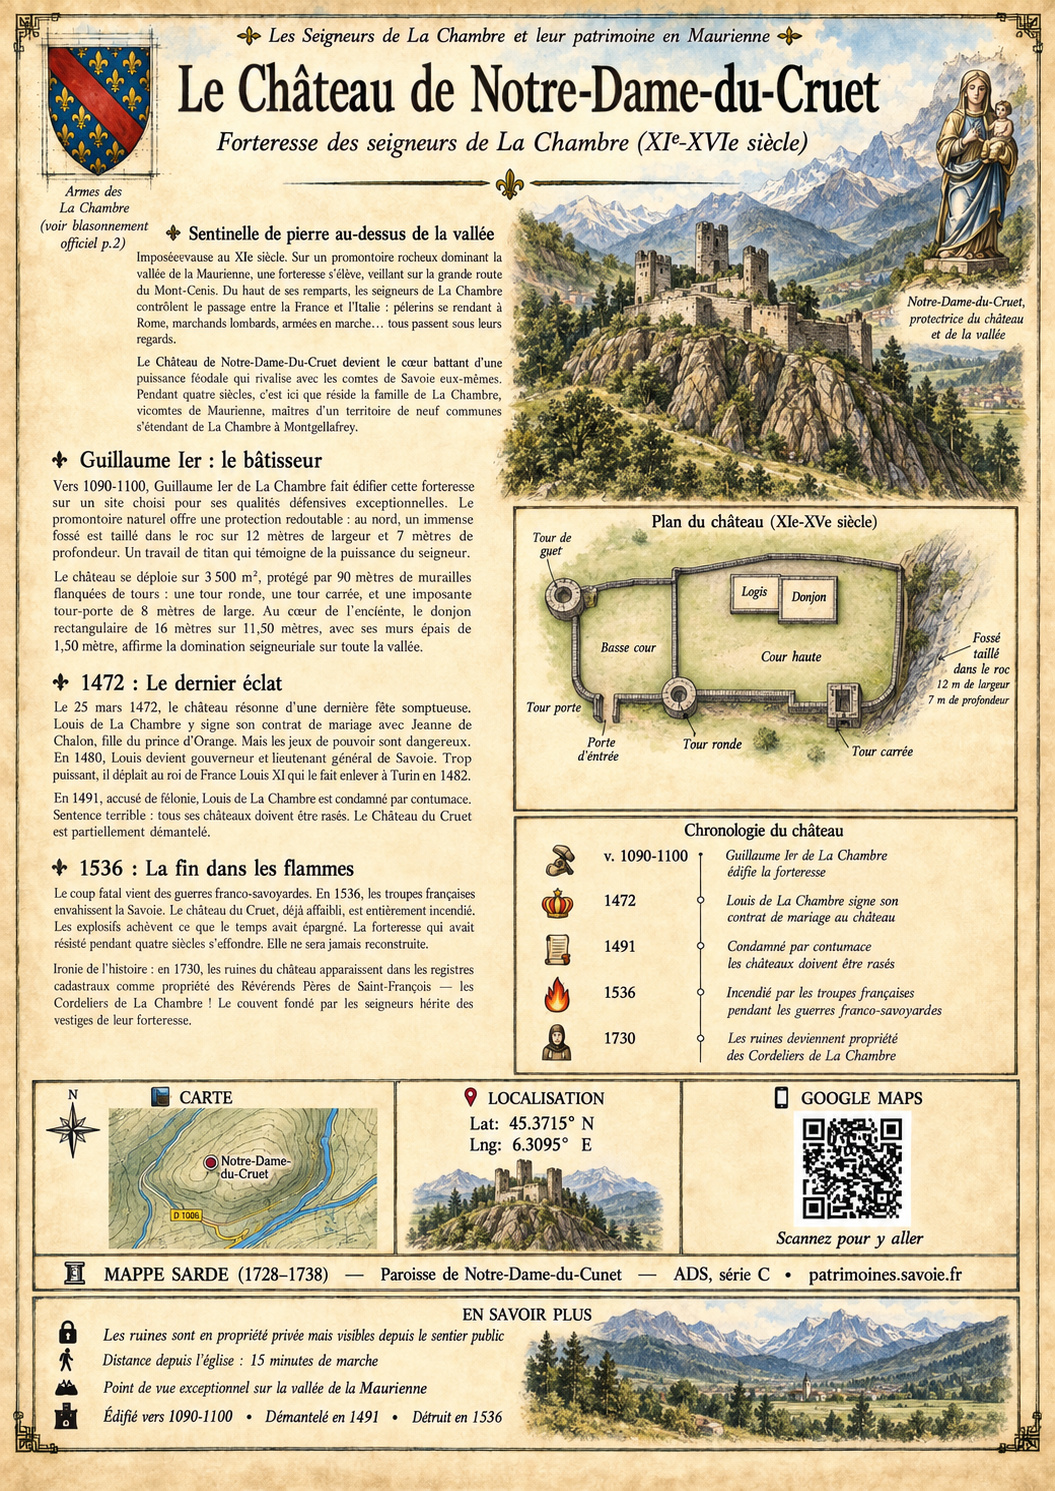
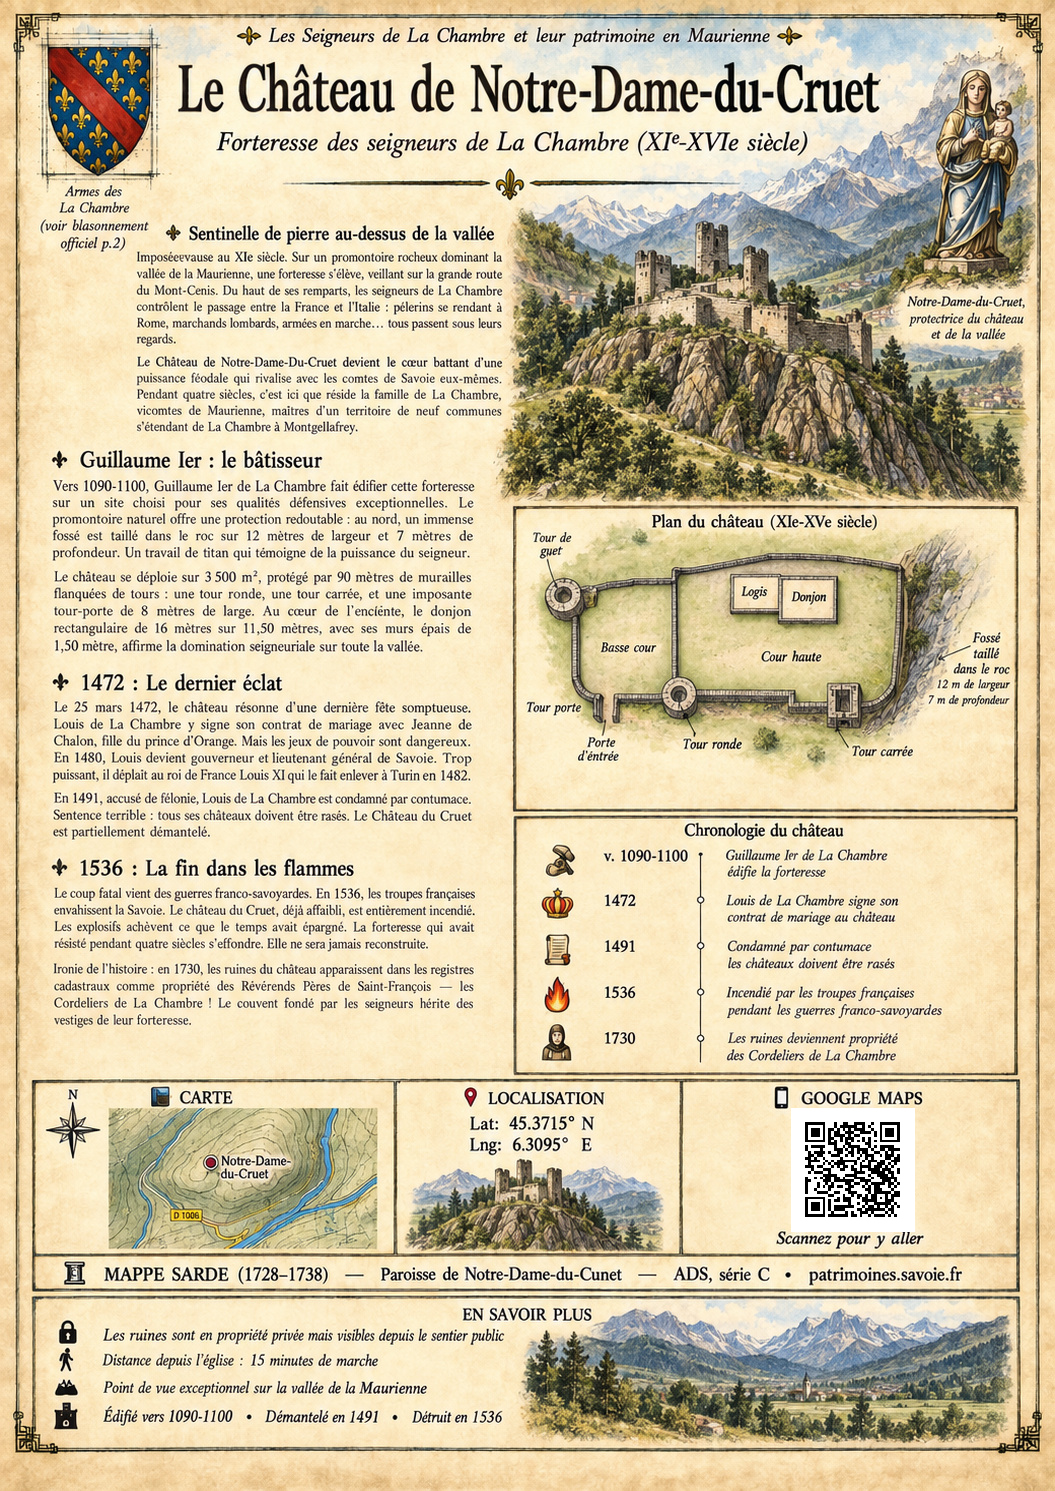
Repair page 10 QR and align page 13 QR codes [qr-overlay]

Changed region(s): [[0.7583, 0.7404, 0.8796, 0.833]]

diff --git a/scripts/validate_qr.py b/scripts/validate_qr.py
@@ -1,30 +1,39 @@
 #!/usr/bin/env python3
 from pathlib import Path
 import sys, yaml, cv2
-
 ROOT=Path(__file__).resolve().parents[1]
-reg=yaml.safe_load((ROOT/'qr_registry.yaml').read_text(encoding='utf-8')) or {}
+reg=yaml.safe_load((ROOT/'qr_registry.yaml').read_text(encoding='utf-8'))
+cfg=yaml.safe_load((ROOT/'build-config.yaml').read_text(encoding='utf-8'))
+ref=cfg['source']['qr_reference_canvas']
+ref_w,ref_h=float(ref['width']),float(ref['height'])
 errors=[]
-detector=cv2.QRCodeDetector()
-
 for pkey,pdata in reg.get('pages',{}).items():
-    page=int(pkey)
-    for q in pdata.get('qrs',[]):
-        asset=ROOT/q['asset']
-        if not asset.exists():
-            errors.append(f"page {page} / {q['id']}: missing QR asset {q['asset']}")
-            continue
-        img=cv2.imread(str(asset),cv2.IMREAD_GRAYSCALE)
-        if img is None:
-            errors.append(f"page {page} / {q['id']}: unreadable QR asset")
-            continue
-        img=cv2.resize(img,None,fx=4,fy=4,interpolation=cv2.INTER_NEAREST)
-        decoded,_,_=detector.detectAndDecode(img)
+    page=int(pkey); qrs=pdata.get('qrs',[])
+    if not qrs: continue
+    image_path=ROOT/'assets'/f'page-{page:02d}.jpg'
+    img=cv2.imread(str(image_path))
+    if img is None:
+        errors.append(f'page {page}: image missing'); continue
+    H,W=img.shape[:2]; sx,sy=W/ref_w,H/ref_h
+    for q in qrs:
+        b=q['placement_px']
+        x=int(round(b['x']*sx)); y=int(round(b['y']*sy)); w=int(round(b['w']*sx)); h=int(round(b['h']*sy))
+        base=max(8,int(round(20*min(sx,sy))))
+        pads=[]
+        for p in (base,8,12,16,20,24,6,10):
+            if p not in pads: pads.append(p)
+        decoded=''
+        detector=cv2.QRCodeDetector()
+        for pad in pads:
+            crop=img[max(0,y-pad):min(H,y+h+pad),max(0,x-pad):min(W,x+w+pad)]
+            crop=cv2.resize(crop,None,fx=4,fy=4,interpolation=cv2.INTER_NEAREST)
+            decoded,pts,_=detector.detectAndDecode(crop)
+            if decoded == q['payload']:
+                break
         if decoded != q['payload']:
-            errors.append(f"page {page} / {q['id']}: asset decoded={decoded!r}, expected={q['payload']!r}")
-
+            errors.append(f"page {page} / {q['id']}: decoded={decoded!r}, expected={q['payload']!r}")
 if errors:
-    print('QR ASSET VALIDATION FAILED')
+    print('QR VALIDATION FAILED')
     for e in errors: print(' -',e)
     sys.exit(1)
-print('QR ASSET VALIDATION OK')
+print('QR VALIDATION OK')
